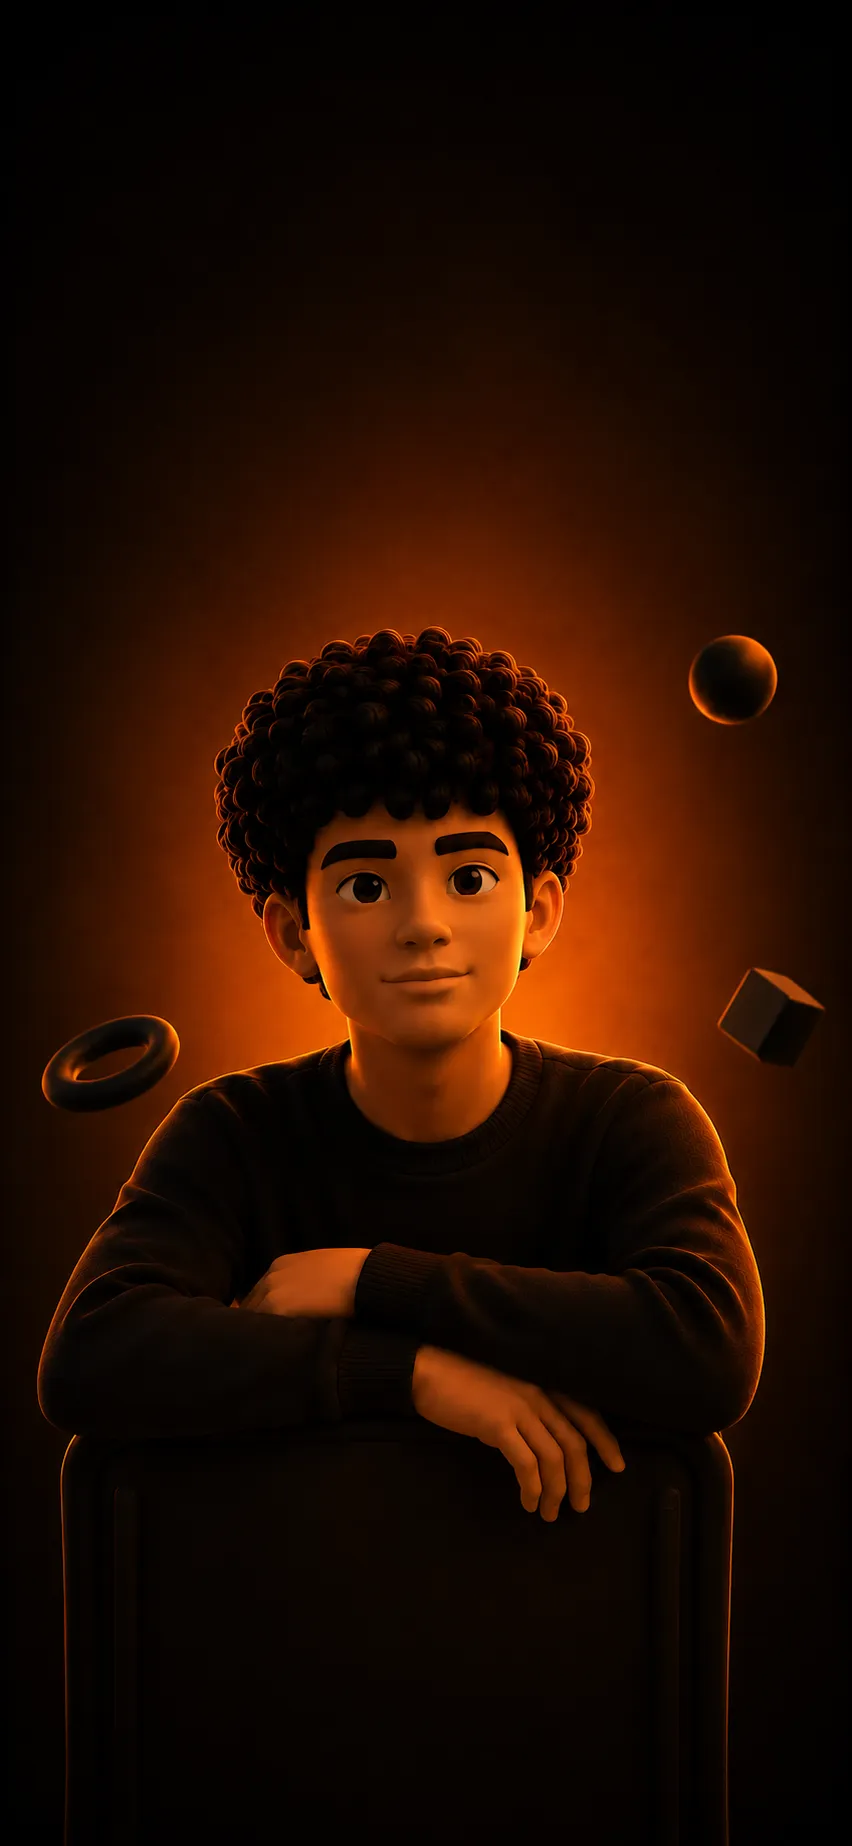
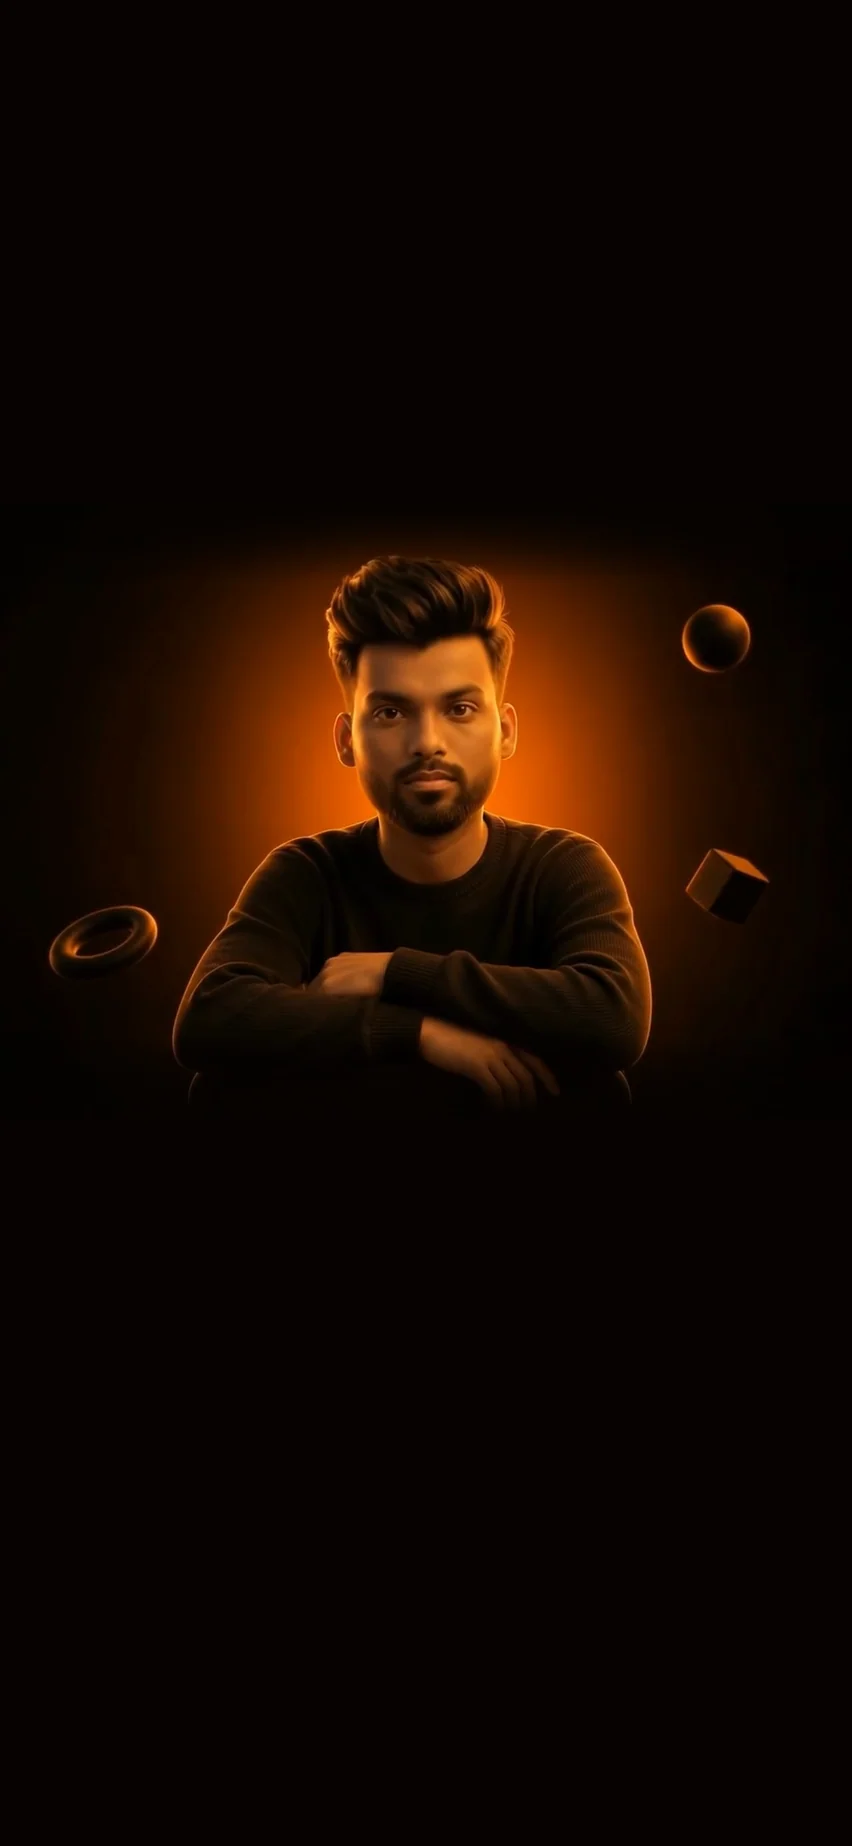
fixed ui issue in mobile screen

diff --git a/src/components/Navbar.jsx b/src/components/Navbar.jsx
@@ -142,38 +142,40 @@ export default function Navbar() {
       {open && (
         <div
           ref={menuRef}
-          className="fixed inset-0 z-[55] bg-black/95 backdrop-blur-xl flex flex-col justify-center items-start px-10 md:hidden"
+          className="fixed inset-0 z-[55] bg-black/95 backdrop-blur-xl flex flex-col justify-start items-start px-6 sm:px-10 pt-28 pb-10 overflow-y-auto md:hidden"
         >
-          <ul className="flex flex-col gap-8 w-full">
-            {LINKS.map(({ label, href }) => {
-              const active = pathname === href;
-              return (
-                <li key={href} className="mobile-nav-link">
-                  <Link
-                    href={href}
-                    onClick={() => setOpen(false)}
-                    className={`block text-3xl font-black tracking-tighter transition-colors duration-300 ${active ? "text-[#ff6b1a]" : "text-white/70 hover:text-white"}`}
-                  >
-                    {label}
-                  </Link>
-                </li>
-              );
-            })}
-            <li className="mobile-nav-link mt-4 pt-4 border-t border-white/10 flex flex-col gap-6">
-               <button 
-                 suppressHydrationWarning
-                 onClick={() => {
-                   setOpen(false);
-                   setIsContactOpen(true);
-                 }}
-                 className="w-full py-4 bg-[#ff6b1a] text-black text-xl font-bold tracking-tight rounded-2xl hover:bg-white hover:text-black transition-colors duration-300"
-               >
-                 Let's Talk
-               </button>
-            </li>
-          </ul>
-          <div className="mobile-nav-link mt-16 text-[10px] text-white/20 tracking-[0.4em] uppercase">
-            Ankit Gupta · Full Stack Developer
+          <div className="w-full flex-1 flex flex-col justify-between max-w-sm">
+            <ul className="flex flex-col gap-5 sm:gap-6 w-full">
+              {LINKS.map(({ label, href }) => {
+                const active = pathname === href;
+                return (
+                  <li key={href} className="mobile-nav-link">
+                    <Link
+                      href={href}
+                      onClick={() => setOpen(false)}
+                      className={`block text-2xl sm:text-3xl font-black tracking-tighter transition-colors duration-300 ${active ? "text-[#ff6b1a]" : "text-white/70 hover:text-white"}`}
+                    >
+                      {label}
+                    </Link>
+                  </li>
+                );
+              })}
+              <li className="mobile-nav-link mt-2 pt-4 border-t border-white/10 flex flex-col gap-4">
+                 <button 
+                   suppressHydrationWarning
+                   onClick={() => {
+                     setOpen(false);
+                     setIsContactOpen(true);
+                   }}
+                   className="w-full py-3.5 bg-[#ff6b1a] text-black text-lg font-bold tracking-tight rounded-2xl hover:bg-white hover:text-black transition-colors duration-300 active:scale-[0.98]"
+                 >
+                   Let's Talk
+                 </button>
+              </li>
+            </ul>
+            <div className="mobile-nav-link mt-8 pt-2 text-[10px] text-white/30 tracking-[0.35em] uppercase font-mono">
+              Ankit Gupta · Full Stack Developer
+            </div>
           </div>
         </div>
       )}

diff --git a/src/components/VideoScrub.jsx b/src/components/VideoScrub.jsx
@@ -211,10 +211,10 @@ export default function VideoScrub() {
   }, [isMobile, mounted]);
 
   const SECTION_IMAGES = [
-    { id: null,              src: '/photo/hero.webp'    }, // default / hero
-    { id: 'about-section',  src: '/photo/about.webp'   },
-    { id: 'work-section',   src: '/photo/project.webp' },
-    { id: 'contact-section', src: '/photo/contact.webp' },
+    { id: null,              src: '/photo/hero.webp?v=2'    }, // default / hero
+    { id: 'about-section',  src: '/photo/about.webp?v=2'   },
+    { id: 'work-section',   src: '/photo/project.webp?v=2' },
+    { id: 'contact-section', src: '/photo/contact.webp?v=2' },
   ];
 
   // Mobile scroll-driven state — updated directly via RAF, no React re-renders
@@ -313,7 +313,7 @@ export default function VideoScrub() {
         <div 
           className="absolute inset-0 w-full h-full opacity-60"
           style={{
-            backgroundImage: "url('/photo/hero.webp')",
+            backgroundImage: "url('/photo/hero.webp?v=2')",
             backgroundSize: "cover",
             backgroundPosition: "center top",
           }}
@@ -361,7 +361,7 @@ export default function VideoScrub() {
   // Desktop: Full scroll-scrubbing video experience
   return (
     <div className="fixed inset-0 z-0 bg-[#0a0a0a]">
-      <video ref={fwdRef} src="/videos/optimized.mp4?v=2" poster="/photo/hero.webp"
+      <video ref={fwdRef} src="/videos/optimized.mp4?v=2" poster="/photo/hero.webp?v=2"
         className={cls} style={{ ...sty, opacity: 1 }}
         muted playsInline preload="metadata"
         aria-hidden="true" suppressHydrationWarning />

diff --git a/src/components/Footer.jsx b/src/components/Footer.jsx
@@ -71,7 +71,7 @@ export default function Footer() {
 
           <div className="flex flex-wrap gap-6 text-[11px] uppercase tracking-[0.3em] font-medium">
             <a
-              href="https://github.com/ankitgupta143"
+              href="https://github.com"
               target="_blank"
               rel="noopener noreferrer"
               className="text-white/40 hover:text-white transition-colors duration-300 flex items-center gap-2"
@@ -79,7 +79,7 @@ export default function Footer() {
               GitHub
             </a>
             <a
-              href="https://linkedin.com"
+              href="https://www.linkedin.com/in/ankit-gupta-77580b238"
               target="_blank"
               rel="noopener noreferrer"
               className="text-white/40 hover:text-white transition-colors duration-300 flex items-center gap-2"

diff --git a/src/app/contact/content.js b/src/app/contact/content.js
@@ -18,8 +18,8 @@ export const SECTION = {
 
 export const SOCIAL_LINKS = [
   { label: "Email Me", href: "mailto:contact@ankitgupta.dev", icon: TbMail },
-  { label: "GitHub", href: "https://github.com/ankitgupta143", icon: SiGithub },
-  { label: "LinkedIn", href: "https://linkedin.com", icon: FaLinkedin },
+  { label: "GitHub", href: "https://github.com", icon: SiGithub },
+  { label: "LinkedIn", href: "https://www.linkedin.com/in/ankit-gupta-77580b238", icon: FaLinkedin },
 ];
 
 

diff --git a/src/app/layout.js b/src/app/layout.js
@@ -134,7 +134,10 @@ const jsonLd = {
           }
         }
       ],
-      "sameAs": [],
+      "sameAs": [
+        "https://www.linkedin.com/in/ankit-gupta-77580b238",
+        "https://github.com"
+      ],
     },
     {
       "@type": "WebSite",
